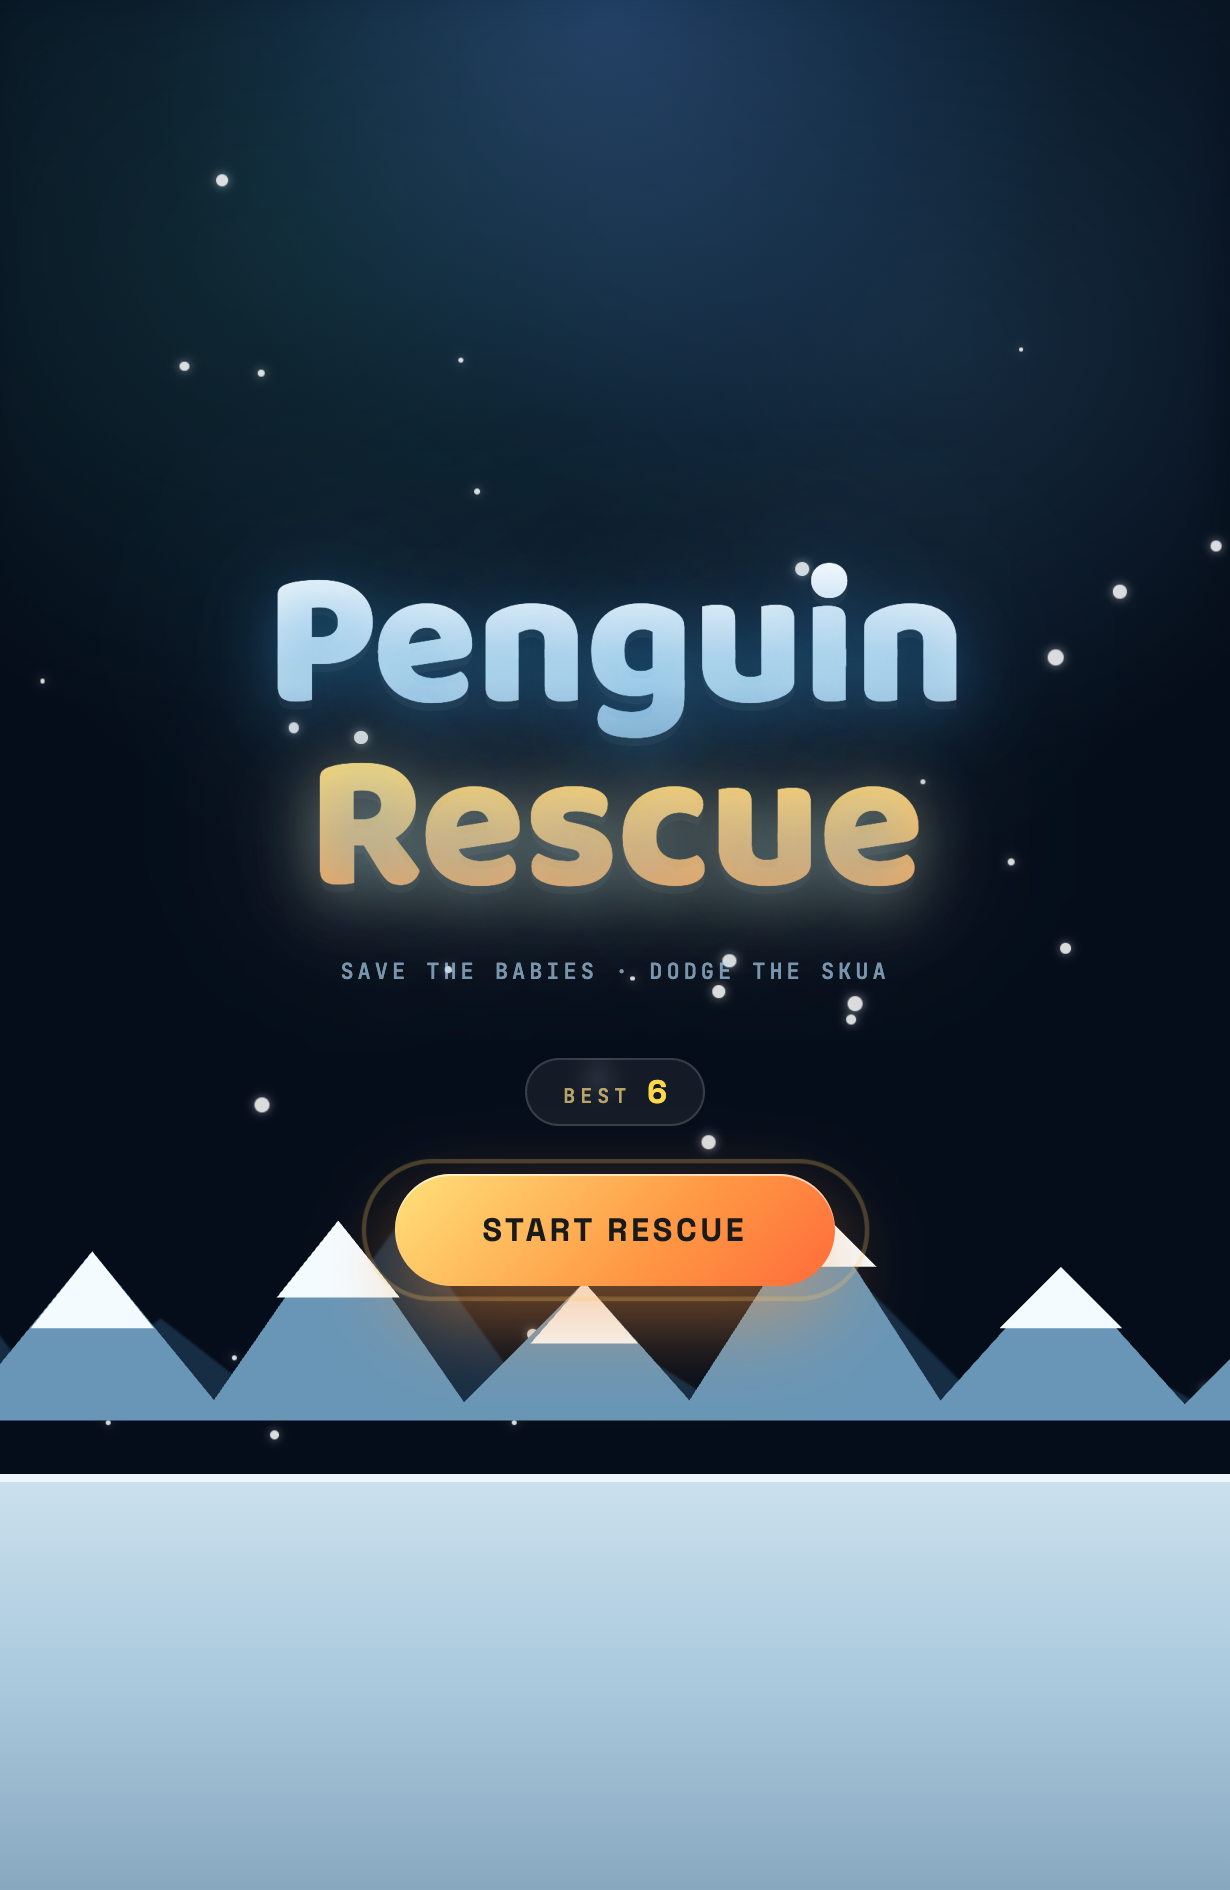
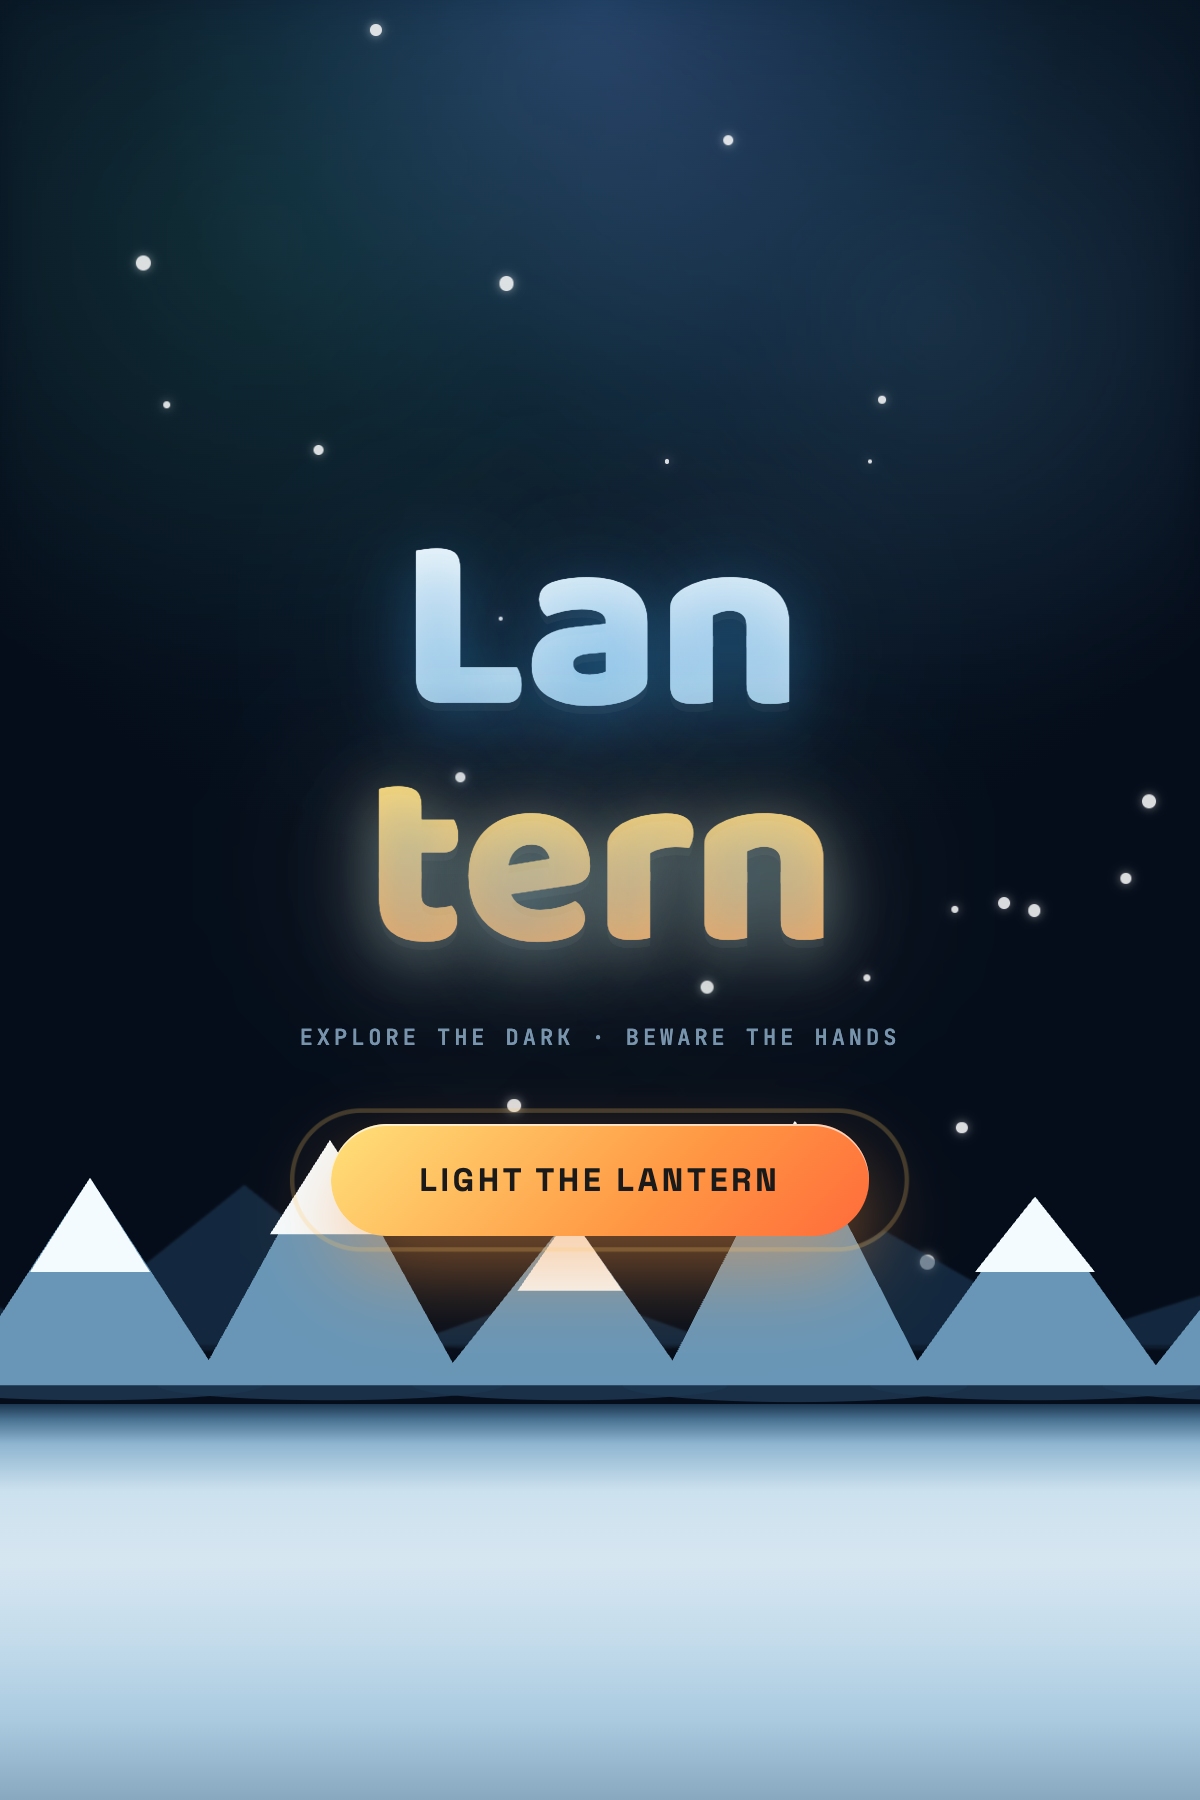
lantern v2: visible lantern beam — bigger spotlight, cone halo+core, point light bounce
User feedback: flashlight was too dim, the floor "ellipse plate" disc
under the player didn't blend with the ground, and the beam didn't
read as a flashlight "fanning out" — verified all three by Chrome
DevTools MCP screenshots, not by reading code.

Fixes:
- SpotLight intensity 32 → 180, distance 14 → 24, decay 1.1 → 0.85.
  Now actually carves a bright wedge of cave floor in front of the
  player instead of being a barely-perceptible halo.
- Added a 2-layer volumetric beam cone (halo + brighter inner core)
  anchored at the lantern (apex world ≈ (0, 1.0, 0.5)) extending
  forward+down to the floor 3.7u ahead. Reads instantly as "the beam
  is shining this way." Matches/copies BeatDrop's flashlight pattern.
- Removed the two stacked floor-puddle discs that the user described
  as the disconnected "ellipse plate." Real SpotLight handles the
  ground brightness now.
- Added a short-range warm PointLight at the lantern (intensity 2.4,
  distance 3.5) so the player's body/hat/feet are visible from the
  top-down camera instead of being a featureless silhouette.
- CSS fog overlay max opacity 0.95 → 0.55 so the cave beyond the
  lantern is dimmed-but-visible, not pitch black.
- Ambient lift 0.08 → 0.28 + contact shadow disc opacity 0.55 → 0.25
  so the player's feet blend into the ground instead of stamping a
  dark "shadow plate."

Cover regenerated.

diff --git a/src/Lantern/components/Scene.tsx b/src/Lantern/components/Scene.tsx
@@ -51,21 +51,25 @@ function FollowCamera({ state }: { state: React.MutableRefObject<GameRef> }) {
 function Player({ state }: { state: React.MutableRefObject<GameRef> }) {
   const groupRef = useRef<THREE.Group>(null);
   const lanternMat = useRef<THREE.MeshStandardMaterial>(null);
+  const coneMat = useRef<THREE.MeshBasicMaterial>(null);
   useFrame(({ clock }) => {
     const d = state.current;
     if (!groupRef.current) return;
     groupRef.current.position.copy(d.pos);
     groupRef.current.rotation.y = d.rot;
     if (lanternMat.current) {
-      lanternMat.current.emissiveIntensity = 2.0 + Math.sin(clock.getElapsedTime() * 4) * 0.25;
+      lanternMat.current.emissiveIntensity = 3.2 + Math.sin(clock.getElapsedTime() * 4) * 0.4;
     }
+    // Slight breathing on the volumetric cone so the beam feels alive
+    const breathe = 1 + Math.sin(clock.getElapsedTime() * 2.4) * 0.05;
+    if (coneMat.current) coneMat.current.opacity = 0.18 * breathe;
   });
   return (
     <group ref={groupRef}>
-      {/* foot shadow */}
+      {/* tiny contact shadow — kept faint so it blends into the lit floor */}
       <mesh position={[0, 0.02, 0]} rotation={[-Math.PI / 2, 0, 0]}>
-        <circleGeometry args={[0.6, 24]} />
-        <meshBasicMaterial color="#000" transparent opacity={0.55} />
+        <circleGeometry args={[0.5, 24]} />
+        <meshBasicMaterial color="#000" transparent opacity={0.25} />
       </mesh>
       {/* lower body */}
       <RoundedBox args={[0.55, 0.55, 0.45]} radius={0.16} smoothness={5} position={[0, 0.35, 0]} castShadow>
@@ -85,32 +89,70 @@ function Player({ state }: { state: React.MutableRefObject<GameRef> }) {
         <coneGeometry args={[0.26, 0.30, 18]} />
         <meshStandardMaterial color="#2a1a12" roughness={0.9} />
       </mesh>
-      {/* lantern stick + lantern (in front of body, in +Z) */}
+      {/* lantern stick + lantern body */}
       <mesh position={[0.30, 1.05, 0.30]} rotation={[0.6, 0, -0.4]}>
         <cylinderGeometry args={[0.025, 0.025, 0.7, 8]} />
         <meshStandardMaterial color="#2a1a10" />
       </mesh>
-      {/* lantern body — emissive lamp glass */}
       <mesh position={[0.46, 0.85, 0.50]}>
         <boxGeometry args={[0.22, 0.30, 0.22]} />
         <meshStandardMaterial color="#1a1410" />
       </mesh>
       <mesh position={[0.46, 0.85, 0.50]}>
         <sphereGeometry args={[0.13, 14, 10]} />
-        <meshStandardMaterial ref={lanternMat} color="#ffe9a0" emissive="#ffd24a" emissiveIntensity={2.0} />
+        <meshStandardMaterial ref={lanternMat} color="#ffe9a0" emissive="#ffd24a" emissiveIntensity={3.2} />
       </mesh>
-      {/* real SpotLight following the lantern, broad cone aimed forward+down */}
+
+      {/* Real SpotLight — broad, bright cone that carves a bright wedge of
+          cave floor in front. */}
       <spotLight
-        position={[0.46, 1.0, 0.50]}
-        angle={Math.PI / 3.2}
-        penumbra={0.7}
-        intensity={32}
-        distance={14}
-        decay={1.1}
+        position={[0, 1.05, 0.40]}
+        angle={Math.PI / 3.0}
+        penumbra={0.5}
+        intensity={180}
+        distance={24}
+        decay={0.85}
         color="#fff2c0"
+        castShadow
       >
         <object3D attach="target" position={[0, -1.0, 4]} />
       </spotLight>
+      {/* Local PointLight at the lantern — short-range warm bounce so the
+          player's body, hat and feet are visible from the camera above,
+          not just a featureless silhouette. */}
+      <pointLight position={[0, 1.0, 0.5]} color="#ffcc70" intensity={2.4} distance={3.5} decay={1.0} />
+
+      {/* VOLUMETRIC BEAM CONE — two layers (halo + core) so the beam reads
+          like an actual flashlight rather than a faint triangle. Position +
+          rotation derived so apex anchors at the lantern (~y=1.0, z=0.5)
+          and base lands flat on the floor 3.7u forward.
+            mesh.position.y = 1.0 - 1.675·cos(72.5°) = 0.50
+            mesh.position.z = 0.5 + 1.675·sin(72.5°) = 2.10 */}
+      <mesh position={[0, 0.50, 2.10]} rotation={[-Math.PI * 0.403, 0, 0]}>
+        <coneGeometry args={[1.6, 3.35, 28, 1, true]} />
+        <meshBasicMaterial
+          ref={coneMat}
+          color="#fff2c0"
+          transparent
+          opacity={0.32}
+          side={THREE.DoubleSide}
+          depthWrite={false}
+          blending={THREE.AdditiveBlending}
+        />
+      </mesh>
+      {/* Brighter inner core — thinner cone, hotter color */}
+      <mesh position={[0, 0.50, 2.10]} rotation={[-Math.PI * 0.403, 0, 0]}>
+        <coneGeometry args={[0.9, 3.35, 24, 1, true]} />
+        <meshBasicMaterial
+          color="#fff5d8"
+          transparent
+          opacity={0.34}
+          side={THREE.DoubleSide}
+          depthWrite={false}
+          blending={THREE.AdditiveBlending}
+        />
+      </mesh>
+
       {/* feet — short cylinders */}
       <mesh position={[-0.14, 0.10, 0]} castShadow>
         <cylinderGeometry args={[0.10, 0.10, 0.20, 10]} />
@@ -121,34 +163,6 @@ function Player({ state }: { state: React.MutableRefObject<GameRef> }) {
         <meshStandardMaterial color="#1a0e08" />
       </mesh>
     </group>
-  );
-}
-
-// Player light puddle on the floor — soft warm disc whose radius matches the
-// game's current `lightRadius`. Read straight from state each frame.
-function LightPuddle({ state }: { state: React.MutableRefObject<GameRef> }) {
-  const innerRef = useRef<THREE.Mesh>(null);
-  const outerRef = useRef<THREE.Mesh>(null);
-  useFrame(() => {
-    const d = state.current;
-    if (!innerRef.current || !outerRef.current) return;
-    const r = (d.greenT > 0 ? d.lightRadius * 2 : d.lightRadius);
-    innerRef.current.position.set(d.pos.x, 0.03, d.pos.z);
-    innerRef.current.scale.set(r * 0.7, 1, r * 0.7);
-    outerRef.current.position.set(d.pos.x, 0.02, d.pos.z);
-    outerRef.current.scale.set(r, 1, r);
-  });
-  return (
-    <>
-      <mesh ref={outerRef} rotation={[-Math.PI / 2, 0, 0]}>
-        <ringGeometry args={[0.5, 1.0, 48]} />
-        <meshBasicMaterial color="#ffd87a" transparent opacity={0.20} depthWrite={false} blending={THREE.AdditiveBlending} />
-      </mesh>
-      <mesh ref={innerRef} rotation={[-Math.PI / 2, 0, 0]}>
-        <circleGeometry args={[1.0, 32]} />
-        <meshBasicMaterial color="#fff2c0" transparent opacity={0.35} depthWrite={false} blending={THREE.AdditiveBlending} />
-      </mesh>
-    </>
   );
 }
 
@@ -404,8 +418,8 @@ export function Scene(props: SceneProps) {
       <FollowCamera state={state} />
       {/* Cave ambient — very dark with a tiny up-fill so silhouettes are barely visible outside the lantern */}
       <fog attach="fog" args={['#040308', 6, 22]} />
-      <ambientLight intensity={0.08} color="#1a1428" />
-      <hemisphereLight args={['#3a2840', '#0a0606', 0.15]} />
+      <ambientLight intensity={0.28} color="#2a1e36" />
+      <hemisphereLight args={['#3a2840', '#0a0606', 0.22]} />
       {/* Floor: dark damp stone */}
       <mesh rotation={[-Math.PI / 2, 0, 0]} position={[0, 0, 0]} receiveShadow>
         <planeGeometry args={[ARENA_HALF * 4, ARENA_HALF * 4]} />
@@ -433,7 +447,6 @@ export function Scene(props: SceneProps) {
       <Crystals state={state} />
       <Walls state={state} />
       <Player state={state} />
-      <LightPuddle state={state} />
       <Monsters state={state} />
     </>
   );

diff --git a/src/Lantern/Lantern.tsx b/src/Lantern/Lantern.tsx
@@ -90,7 +90,7 @@ export function Lantern() {
           <div
             className="ln__fog"
             style={{
-              background: `radial-gradient(circle at 50% 50%, rgba(0,0,0,0) 0%, rgba(0,0,0,0) ${Math.max(8, lightRadius * 5)}%, rgba(0,0,0,0.55) ${Math.max(18, lightRadius * 9)}%, rgba(0,0,0,0.95) 65%)`,
+              background: `radial-gradient(circle at 50% 50%, rgba(0,0,0,0) 0%, rgba(0,0,0,0) ${Math.max(14, lightRadius * 8)}%, rgba(0,0,0,0.20) ${Math.max(30, lightRadius * 14)}%, rgba(0,0,0,0.55) 80%)`,
             }}
           />
         </div>